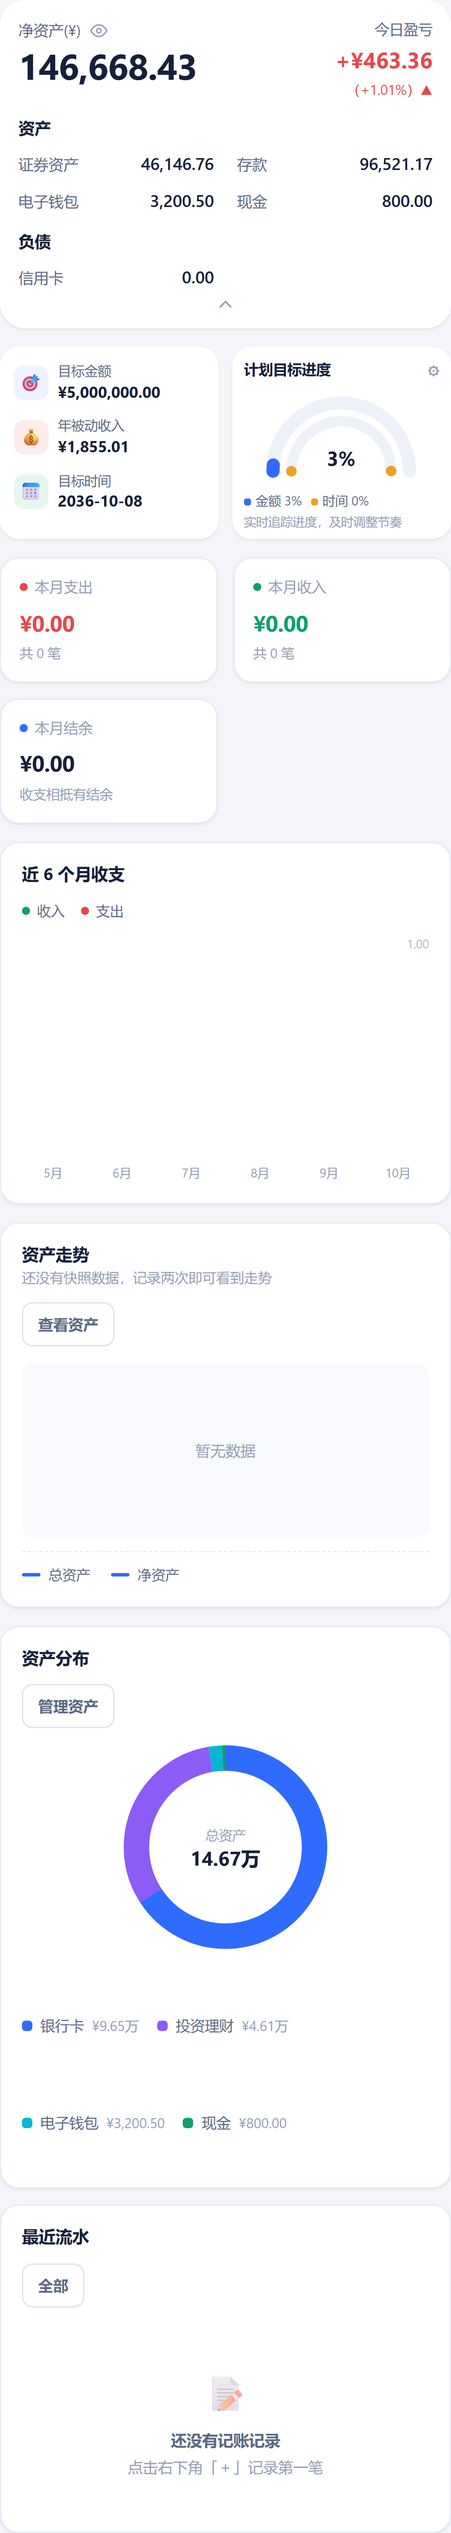
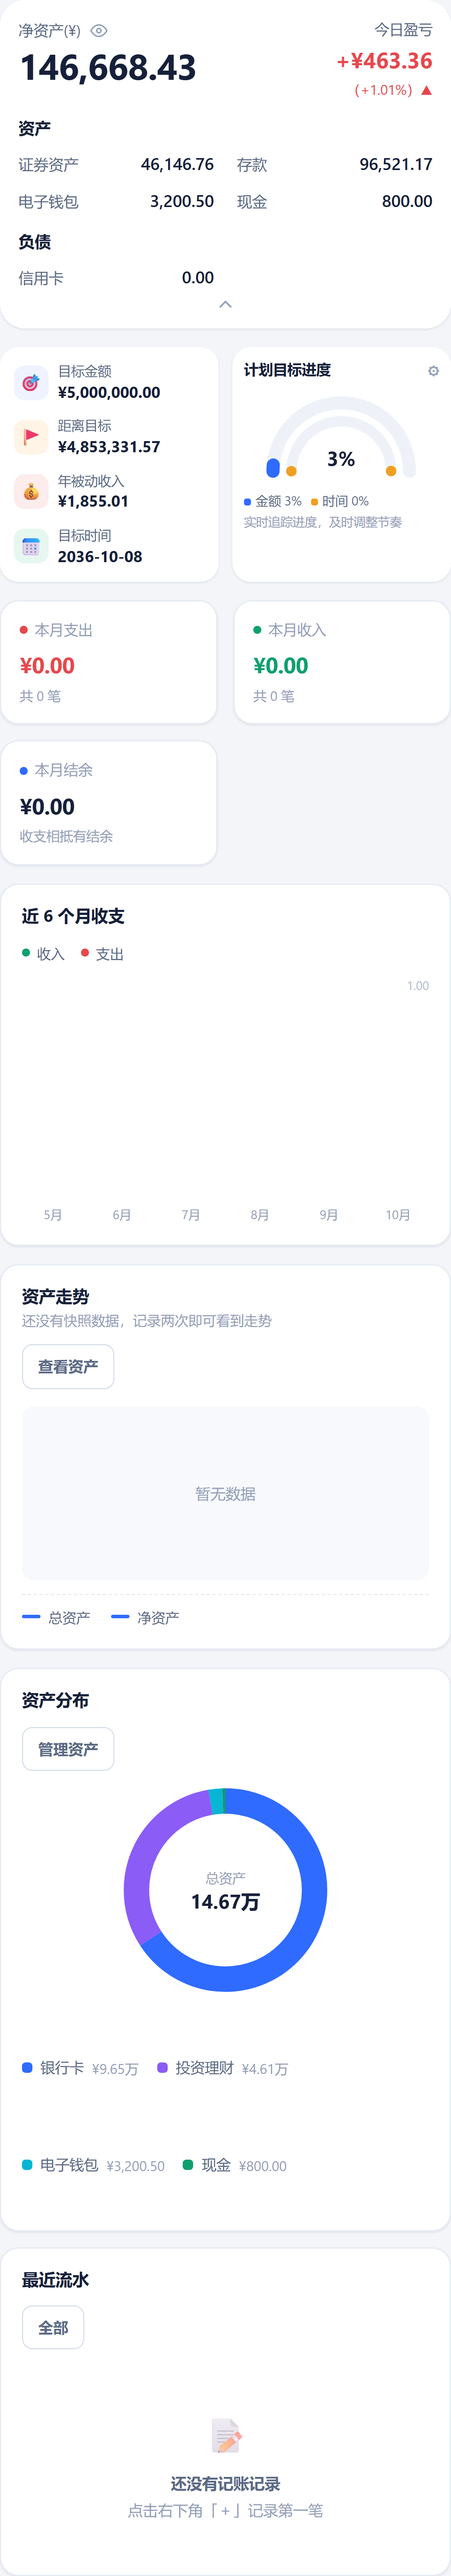
feat: 目标卡新增「距离目标」一行（目标金额 − 总资产，达成显示已达成🎉）（版本 20261019h）

diff --git a/money-ledger/js/views.js b/money-ledger/js/views.js
@@ -11,23 +11,23 @@ import {
   accountCash, tradesOfHolding, holdingDays, firstTradeDate, isOpenHolding,
   fxRate, holdingCurrency, fxSummary, hasFxMissingHolding, holdingPrice,
   holdingFxMissing, goalProgress,
-} from './state.js?v=20261019g'
+} from './state.js?v=20261019h'
 import {
   mountDonut, mountBars, mountArea, mountMultiArea, legendHtml,
   multiLegendHtml, rankingHtml,
-} from './charts.js?v=20261019g'
+} from './charts.js?v=20261019h'
 import {
   openRecordSheet, openAccountSheet, openCategorySheet, removeCategory,
   openHelpSheet, openHoldingSheet, openTradeSheet, openTradesSheet,
   openGoalSheet,
-} from './sheets.js?v=20261019g'
-import { displayCode, marketLabel, CURRENCY_SYMBOL } from './quotes.js?v=20261019g'
-import { allowlistInfo, normalizePhone } from './access.js?v=20261019g'
-import { confirmDialog, toastOk, toastErr, describeError } from './ui.js?v=20261019g'
+} from './sheets.js?v=20261019h'
+import { displayCode, marketLabel, CURRENCY_SYMBOL } from './quotes.js?v=20261019h'
+import { allowlistInfo, normalizePhone } from './access.js?v=20261019h'
+import { confirmDialog, toastOk, toastErr, describeError } from './ui.js?v=20261019h'
 import {
   escapeHtml, formatAmount, formatCompact, formatSigned, monthLabel,
   shortMonthLabel, shiftMonth, friendlyDate, toNumber, currentMonthKey, initialsOf,
-} from './util.js?v=20261019g'
+} from './util.js?v=20261019h'
 
 /* ============================================================
    页面渲染
@@ -287,6 +287,12 @@ function goalBlockHtml() {
   const amountPctText = gp.amountPct === null ? '--' : `${Math.round(gp.amountPct * 100)}%`
   const timePctText = gp.timePct === null ? '--' : `${Math.round(gp.timePct * 100)}%`
 
+  // 距离目标 = 目标金额 − 总资产；达成了就直接说达成
+  let distanceText = '未设置'
+  if (gp.distance !== null) {
+    distanceText = gp.distance > 0 ? `¥${formatAmount(gp.distance)}` : '已达成 🎉'
+  }
+
   return `
     <div class="goal-row">
       <div class="goal-card">
@@ -295,6 +301,13 @@ function goalBlockHtml() {
           <span class="goal-card__text">
             <span class="goal-card__label">目标金额</span>
             <span class="goal-card__value num">${amountText}</span>
+          </span>
+        </button>
+        <button class="goal-card__item" type="button" data-act="open-goal">
+          <span class="goal-card__icon" style="background:#fff4e5">🚩</span>
+          <span class="goal-card__text">
+            <span class="goal-card__label">距离目标</span>
+            <span class="goal-card__value num">${distanceText}</span>
           </span>
         </button>
         <button class="goal-card__item" type="button" data-act="open-goal">

diff --git a/money-ledger/js/state.js b/money-ledger/js/state.js
@@ -1,8 +1,8 @@
-import * as store from './store.js?v=20261019g'
-import { fetchQuotes, fetchFxRates, currencyOf, CURRENCY_LABEL } from './quotes.js?v=20261019g'
+import * as store from './store.js?v=20261019h'
+import { fetchQuotes, fetchFxRates, currencyOf, CURRENCY_LABEL } from './quotes.js?v=20261019h'
 import {
   toNumber, monthKeyOf, currentMonthKey, todayISO, colorByName, safeColor,
-} from './util.js?v=20261019g'
+} from './util.js?v=20261019h'
 
 /* ============================================================
    全局状态与派生计算
@@ -1129,8 +1129,10 @@ export async function saveGoal(patch) {
 export function goalProgress() {
   const g = goal()
   const target = toNumber(g.target_amount)
-  const { netWorth } = netWorthSummary()
+  const { netWorth, totalAssets } = netWorthSummary()
   const amountPct = target > 0 ? Math.max(0, netWorth) / target : null
+  // 距离目标按用户口径算：目标金额 − 总资产（不是净资产）
+  const distance = target > 0 ? target - totalAssets : null
 
   let timePct = null
   if (g.started_on && g.target_date) {
@@ -1139,5 +1141,5 @@ export function goalProgress() {
     if (end > start) timePct = Math.min(1, Math.max(0, (Date.now() - start) / (end - start)))
   }
 
-  return { goal: g, hasTarget: target > 0, targetAmount: target, amountPct, timePct }
+  return { goal: g, hasTarget: target > 0, targetAmount: target, totalAssets, distance, amountPct, timePct }
 }

diff --git a/money-ledger/js/app.js b/money-ledger/js/app.js
@@ -1,21 +1,21 @@
-import { cloud } from './cloud.js?v=20261019g'
-import * as store from './store.js?v=20261019g'
+import { cloud } from './cloud.js?v=20261019h'
+import * as store from './store.js?v=20261019h'
 import {
   state, loadAll, ensureDefaultCategories, setChangeListener, setRenderListener,
   setNavigator, setLogoutHandler, recordTodaySnapshot, activeAccounts,
   refreshQuotes, ensureOpeningTrades, openHoldings,
-} from './state.js?v=20261019g'
-import { PAGES } from './views.js?v=20261019g'
-import { reflowCharts } from './charts.js?v=20261019g'
-import { openRecordSheet } from './sheets.js?v=20261019g'
+} from './state.js?v=20261019h'
+import { PAGES } from './views.js?v=20261019h'
+import { reflowCharts } from './charts.js?v=20261019h'
+import { openRecordSheet } from './sheets.js?v=20261019h'
 import {
   toastOk, toastErr, describeError, setBusy, skeletonCard,
-} from './ui.js?v=20261019g'
-import { escapeHtml, initialsOf, monthLabel, todayISO, debounce } from './util.js?v=20261019g'
+} from './ui.js?v=20261019h'
+import { escapeHtml, initialsOf, monthLabel, todayISO, debounce } from './util.js?v=20261019h'
 import {
   checkInvite, loadAllowlist, allowlistInfo, phoneOfUser,
   rememberPhone, rememberedPhone,
-} from './access.js?v=20261019g'
+} from './access.js?v=20261019h'
 
 /* ============================================================
    启动流程

diff --git a/money-ledger/js/sheets.js b/money-ledger/js/sheets.js
@@ -1,4 +1,4 @@
-import * as store from './store.js?v=20261019g'
+import * as store from './store.js?v=20261019h'
 import {
   state, categoriesOf, ACCOUNT_TYPES, SUBTYPES, typeMeta, notifyChange,
   loadAll, refreshQuotes, requestRender, holdingsOfAccount, accountById,
@@ -6,18 +6,18 @@ import {
   holdingPrice, holdingMarketValue, holdingProfit, holdingDayProfit,
   buildOpeningTrade, fxRate, holdingCurrency,
   goal, saveGoal,
-} from './state.js?v=20261019g'
+} from './state.js?v=20261019h'
 import {
   MARKET_GROUPS, groupOfMarket, normalizeSymbol, marketOf, lookupSymbol,
   displayCode, CURRENCY_SYMBOL, currencyOf,
-} from './quotes.js?v=20261019g'
+} from './quotes.js?v=20261019h'
 import {
   openSheet, toastOk, toastErr, describeError, confirmDialog, setBusy,
-} from './ui.js?v=20261019g'
+} from './ui.js?v=20261019h'
 import {
   escapeHtml, html, parseAmount, toNumber, todayISO, PALETTE, colorByName,
   safeColor, formatAmount, formatSigned, friendlyDate,
-} from './util.js?v=20261019g'
+} from './util.js?v=20261019h'
 
 /* ============================================================
    各类表单弹层

diff --git a/money-ledger/index.html b/money-ledger/index.html
@@ -7,7 +7,7 @@
 <meta name="robots" content="noindex, nofollow, noarchive">
 <meta name="description" content="个人日常生活收支记录与金融资产跟踪工具（邀请制，仅受邀账号可登录）" data-page-node-id="nBEcCVth9CTZxzyRJ1UzG0">
 <title>生活记账本 · 收支与资产管理</title>
-<link rel="stylesheet" href="styles.css?v=20261019g" data-page-node-id="tWSEwcKCKjWB3yE5e0iAGO">
+<link rel="stylesheet" href="styles.css?v=20261019h" data-page-node-id="tWSEwcKCKjWB3yE5e0iAGO">
 </head>
 <body data-page-node-id="PG4yz4NseFFerv4Riaf9lA">
 
@@ -129,6 +129,6 @@
 <div id="toast-root" class="toast-root" aria-live="polite" data-page-node-id="mknPdPXrWdIyMgrlTxMfX6"></div>
 
 <script src="https://cdn.jsdelivr.net/npm/@tencent-ai/workbuddy-cloud-sdk@dev/lib/index.global.js"></script>
-<script type="module" src="js/app.js?v=20261019g"></script>
+<script type="module" src="js/app.js?v=20261019h"></script>
 </body>
 </html>

diff --git a/money-ledger/js/access.js b/money-ledger/js/access.js
@@ -13,7 +13,7 @@
    名单为空或读取失败时不做限制（fail-open），避免把管理者自己锁在门外。
    ============================================================ */
 
-import * as store from './store.js?v=20261019g'
+import * as store from './store.js?v=20261019h'
 
 const SALT = 'life-ledger-invite-v1:'
 const CACHE_TTL = 5 * 60 * 1000

diff --git a/money-ledger/js/charts.js b/money-ledger/js/charts.js
@@ -1,4 +1,4 @@
-import { escapeHtml, formatAmount, formatCompact } from './util.js?v=20261019g'
+import { escapeHtml, formatAmount, formatCompact } from './util.js?v=20261019h'
 
 /* ============================================================
    图表：按容器实际宽度绘制，文本框不缩放

diff --git a/money-ledger/js/cloud.js b/money-ledger/js/cloud.js
@@ -1,4 +1,4 @@
-import { PUBLIC_CONFIG } from './config.js?v=20261019g'
+import { PUBLIC_CONFIG } from './config.js?v=20261019h'
 
 /**
  * 云服务客户端：全应用只初始化一次，Auth / Database / Storage / LLM 共用同一实例。

diff --git a/money-ledger/js/quotes.js b/money-ledger/js/quotes.js
@@ -1,4 +1,4 @@
-import { toNumber } from './util.js?v=20261019g'
+import { toNumber } from './util.js?v=20261019h'
 
 /* ============================================================
    行情数据模块

diff --git a/money-ledger/js/store.js b/money-ledger/js/store.js
@@ -1,4 +1,4 @@
-import { cloud } from './cloud.js?v=20261019g'
+import { cloud } from './cloud.js?v=20261019h'
 
 /* ============================================================
    数据访问层

diff --git a/money-ledger/js/ui.js b/money-ledger/js/ui.js
@@ -1,4 +1,4 @@
-import { escapeHtml, html } from './util.js?v=20261019g'
+import { escapeHtml, html } from './util.js?v=20261019h'
 
 /* ---------------- Toast ---------------- */
 

diff --git a/.workbuddy/memory/2026-10-19.md b/.workbuddy/memory/2026-10-19.md
@@ -97,3 +97,13 @@
 - saveSetting 用「先查后插/改」而非 upsert，避免 PostgREST onConflict 语义踩坑（未经真实登录验证，待线上首验）。
 - 版本 20261019f 已发布，线上实测：目标卡/进度环/自选列表均正常渲染，弹层可打开，390px 无溢出。
   注意：user_settings 的写入（保存目标、增删自选）需登录态，本机无法直接验，等用户线上首点确认。
+
+## 用户手机截图反馈（19:27 前后）三点修改，commit e950328，版本 20261019g
+- 用户手机上目标/自选区块显示成「默认按钮」样式 → 线上 styles.css?v=20261019f 确认含新样式（grep 10 处命中），
+  判断为手机端缓存了旧 CSS。发新版后提醒：彻底关闭页面重开（或点底部刷新）。
+- ① 移除自选列表（views/sheets/state/styles 全清，user_settings 表保留给 goal）。
+  sed 删函数时把 openGoalSheet 的闭合 } 一并删了，node --check 抓到后补回。
+- ② 顶栏「日期 · 净资产 ¥xxx」→ 只留日期。为什么清零后还显示 46,625.91：subtitleOf 是导航时才重算的，
+  清数据后没触发重渲染就一直挂着旧值；反正按需求删掉了。
+- ③ 进度环 max-height 84px 居中，不再撑满卡片。
+- 本地验证：390px 无溢出、自选入口消失、目标弹层正常、截图确认。
